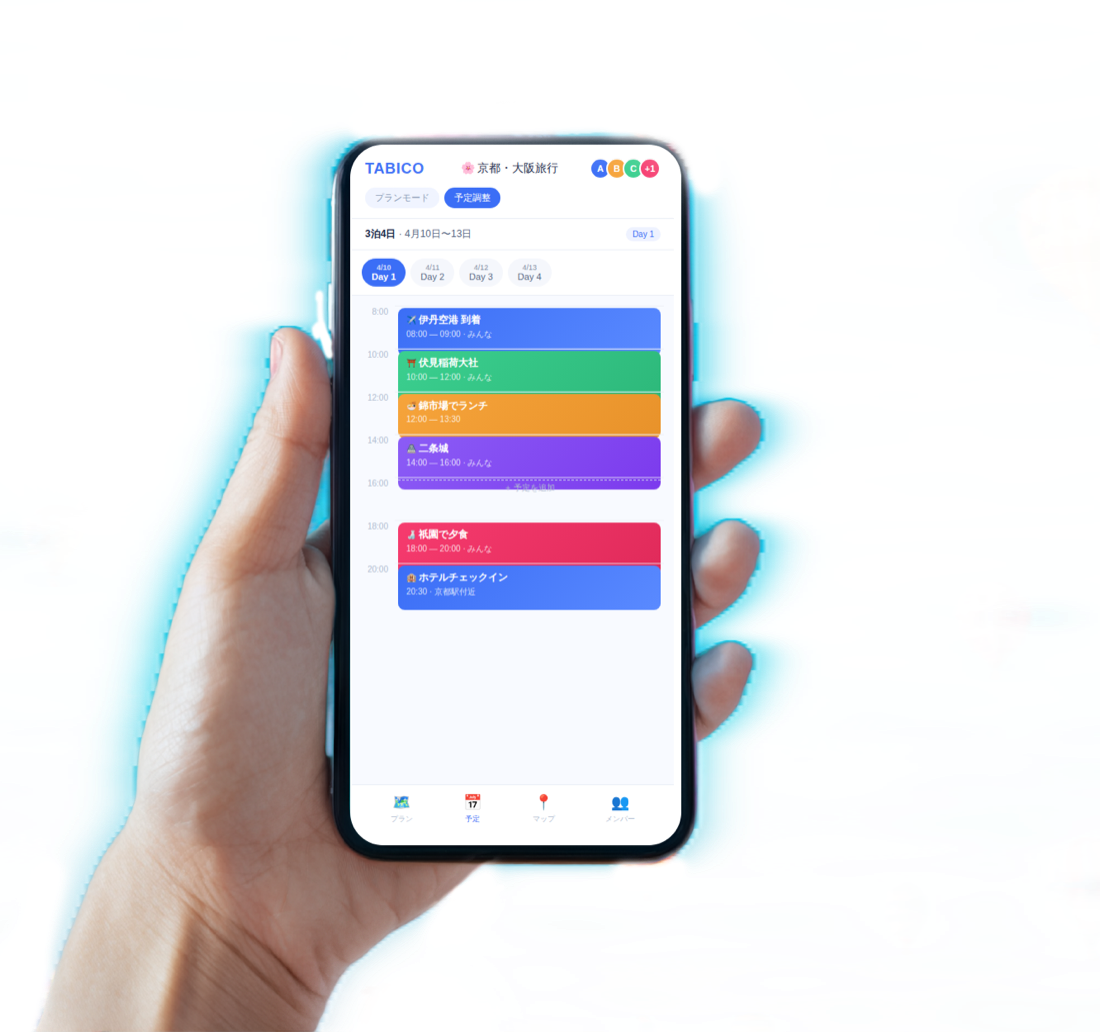
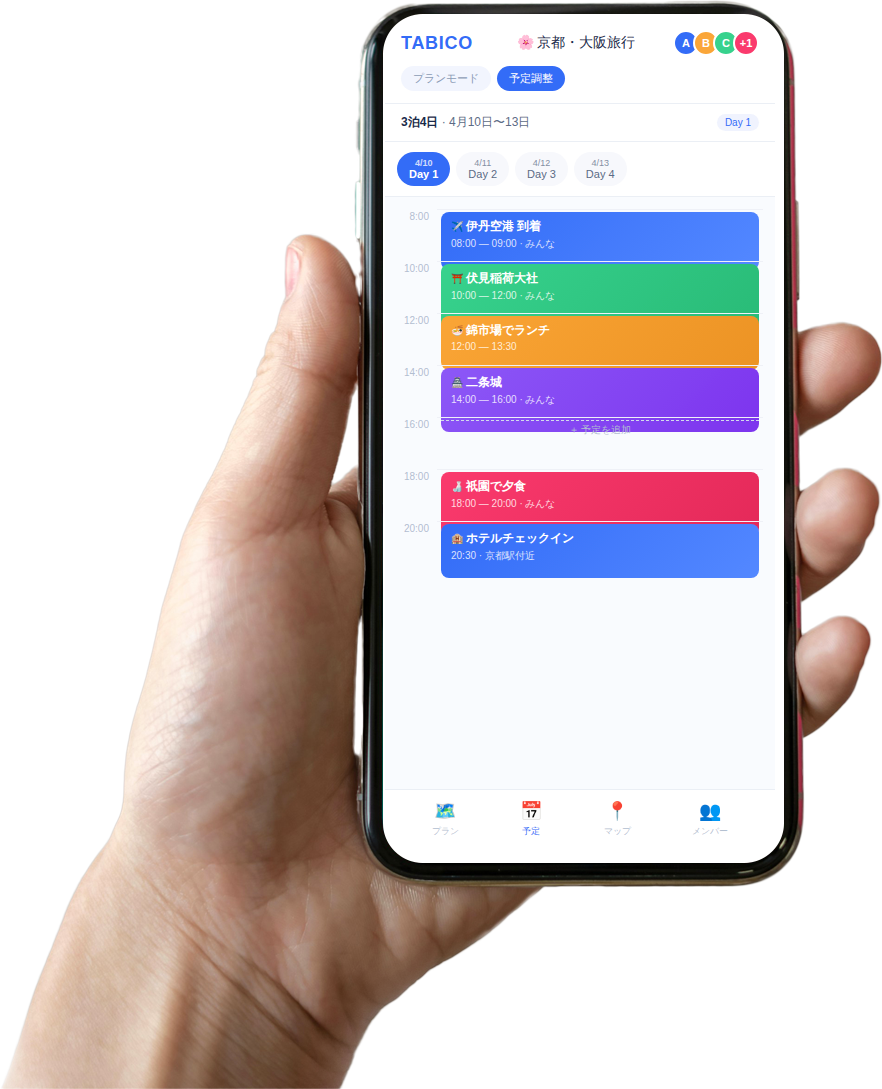
Resize hero smartphone graphic for its re-exported (padding-free) image
The re-export (824x1064) dropped the extra transparent margin the old
1100x1032 asset had, so the old box (aspect-ratio 567/532, sized off
that padding) no longer matched. Recompute width/aspect-ratio/left
from the new image's ratio, keeping the same visual height and
horizontal center as before, for both PC and SP.

diff --git a/wp-content/themes/cocoon-child-master/scss/lp/components/_hero.scss b/wp-content/themes/cocoon-child-master/scss/lp/components/_hero.scss
@@ -81,10 +81,12 @@
 
 .lp-hero__smartphone {
   position: absolute;
-  left: 33.21%; // 548 / 1650（mv frame内での相対x）
+  // 画像を余白なしで再書き出し（824×1064）したため、旧バウンディングボックスと縦の高さが
+  // 揃うよう幅を再計算し、中心位置が変わらないようleftも再計算している
+  left: 37.9%;
   bottom: 0;
-  width: 34.36vw; // 567 / 1650
-  aspect-ratio: 567 / 532;
+  width: 24.98vw;
+  aspect-ratio: 824 / 1064;
   overflow: hidden;
   pointer-events: none;
 
@@ -95,8 +97,7 @@
   }
 
   @include m.sp {
-    left: 1.99%; // 8 / 402
-    width: 85.07vw; // 342 / 402
-    aspect-ratio: 342 / 408;
+    left: 5.22%;
+    width: 78.62vw;
   }
 }

diff --git a/wp-content/themes/cocoon-child-master/css/lp.css b/wp-content/themes/cocoon-child-master/css/lp.css
@@ -345,10 +345,10 @@ ol {
 
 .lp-hero__smartphone {
   position: absolute;
-  left: 33.21%;
+  left: 37.9%;
   bottom: 0;
-  width: 34.36vw;
-  aspect-ratio: 567/532;
+  width: 24.98vw;
+  aspect-ratio: 824/1064;
   overflow: hidden;
   pointer-events: none;
 }
@@ -359,9 +359,8 @@ ol {
 }
 @media screen and (max-width: 768px) {
   .lp-hero__smartphone {
-    left: 1.99%;
-    width: 85.07vw;
-    aspect-ratio: 342/408;
+    left: 5.22%;
+    width: 78.62vw;
   }
 }
 